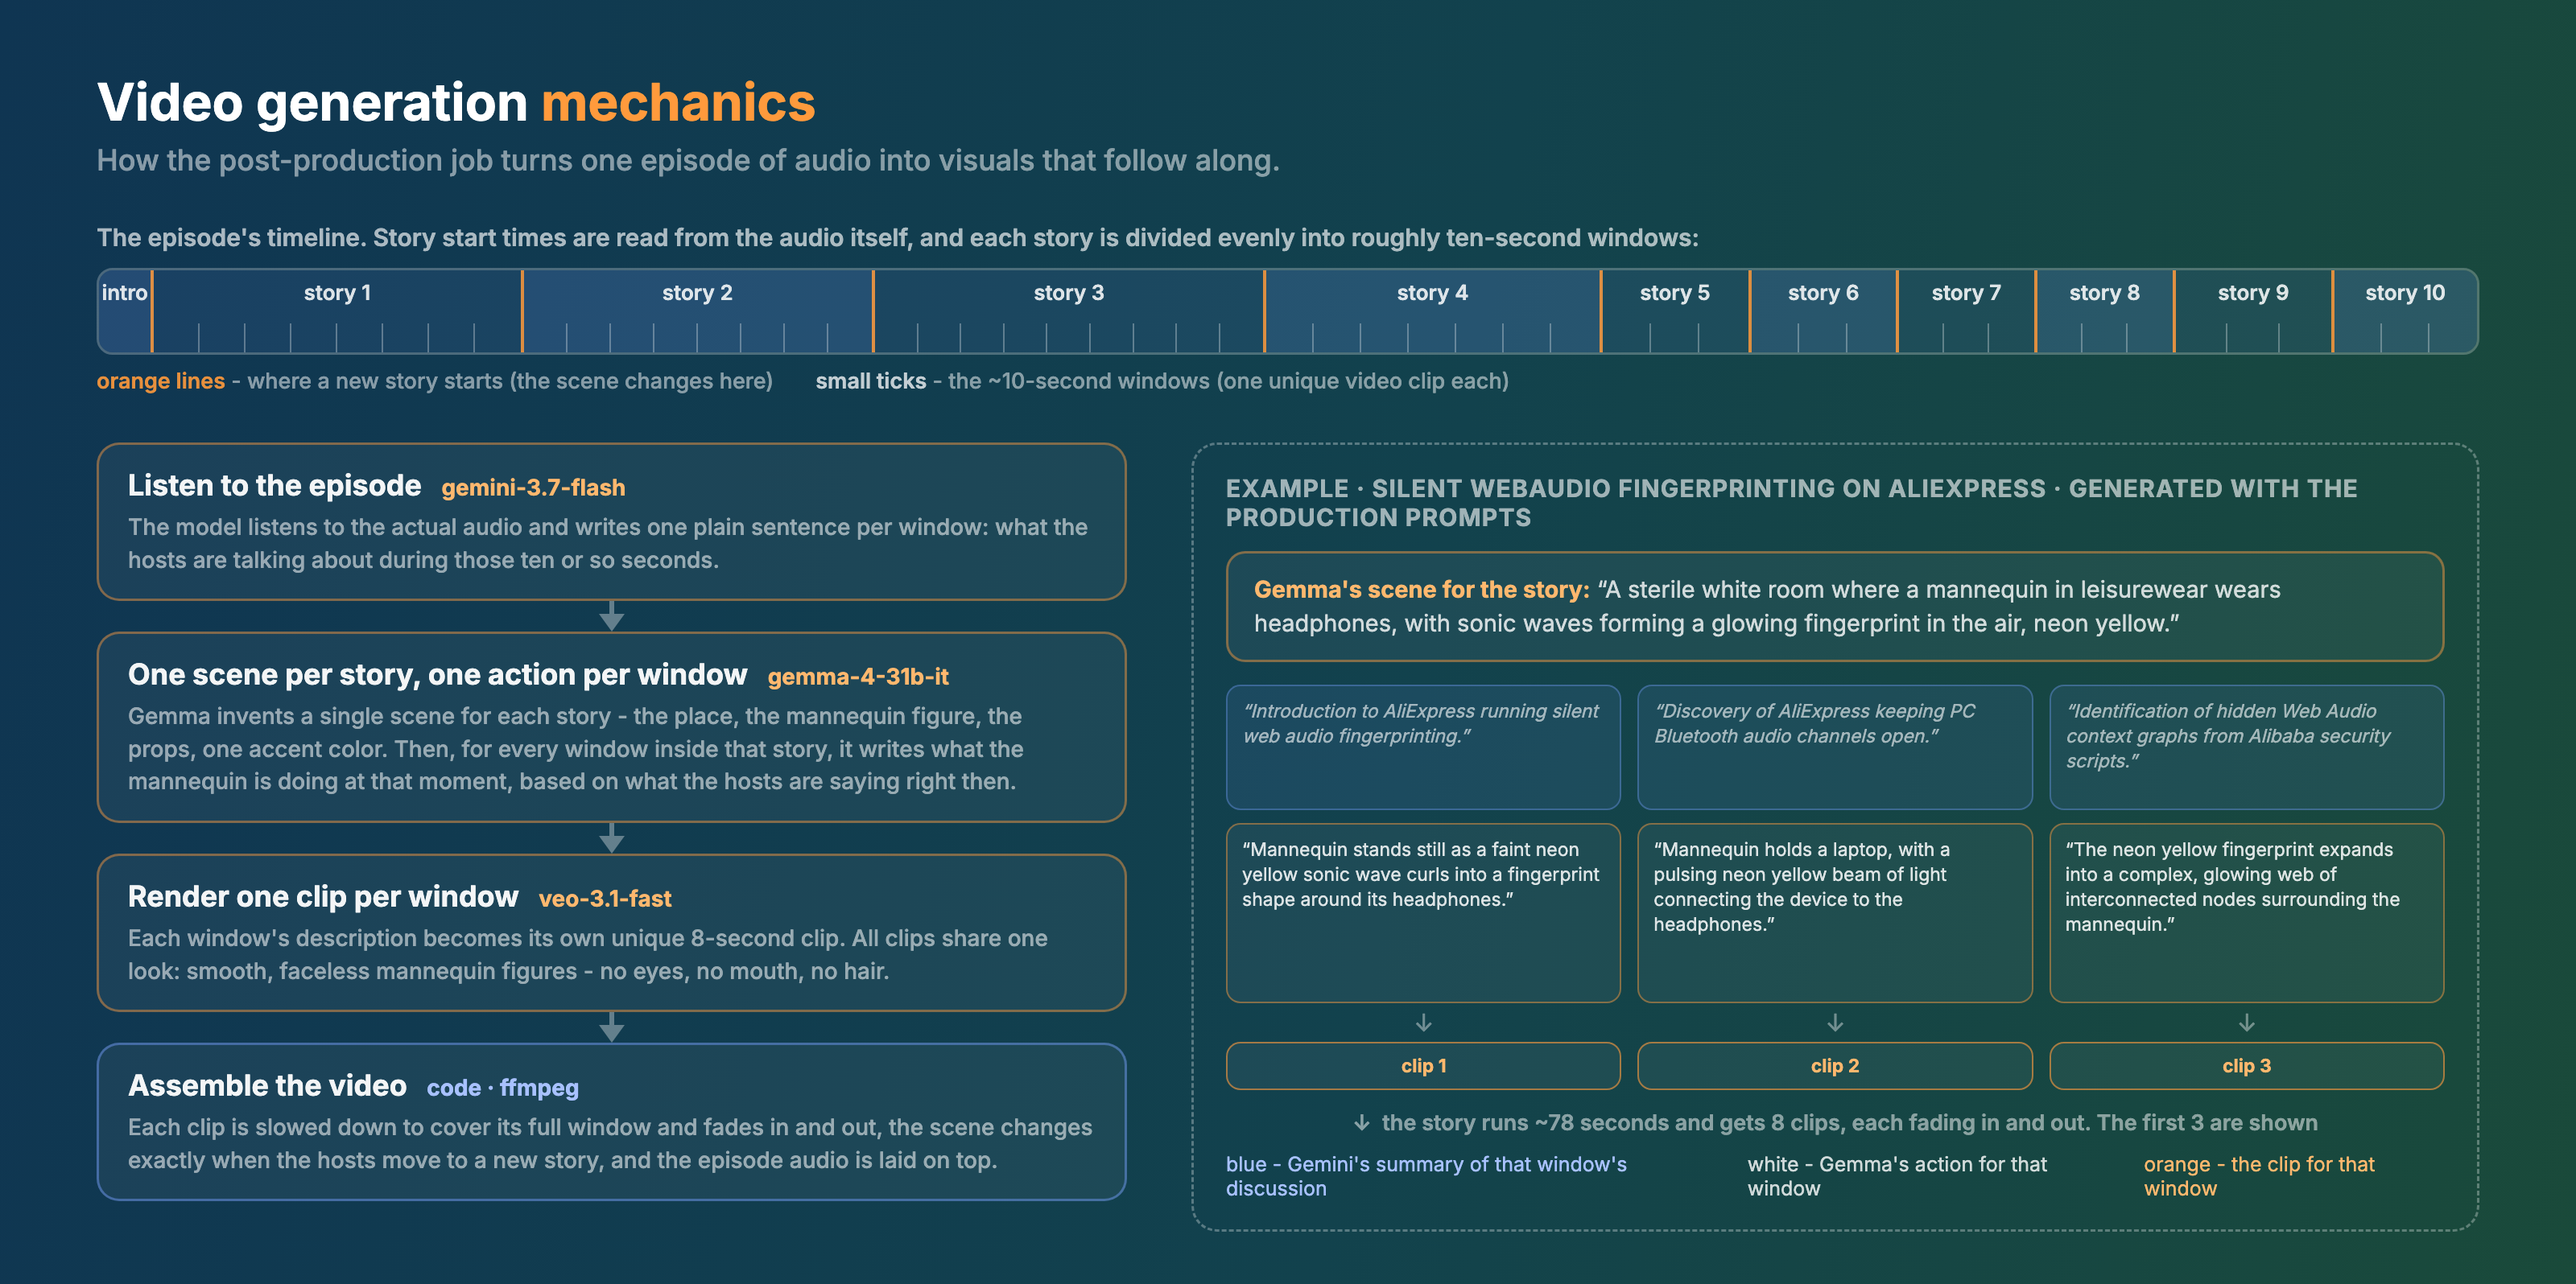
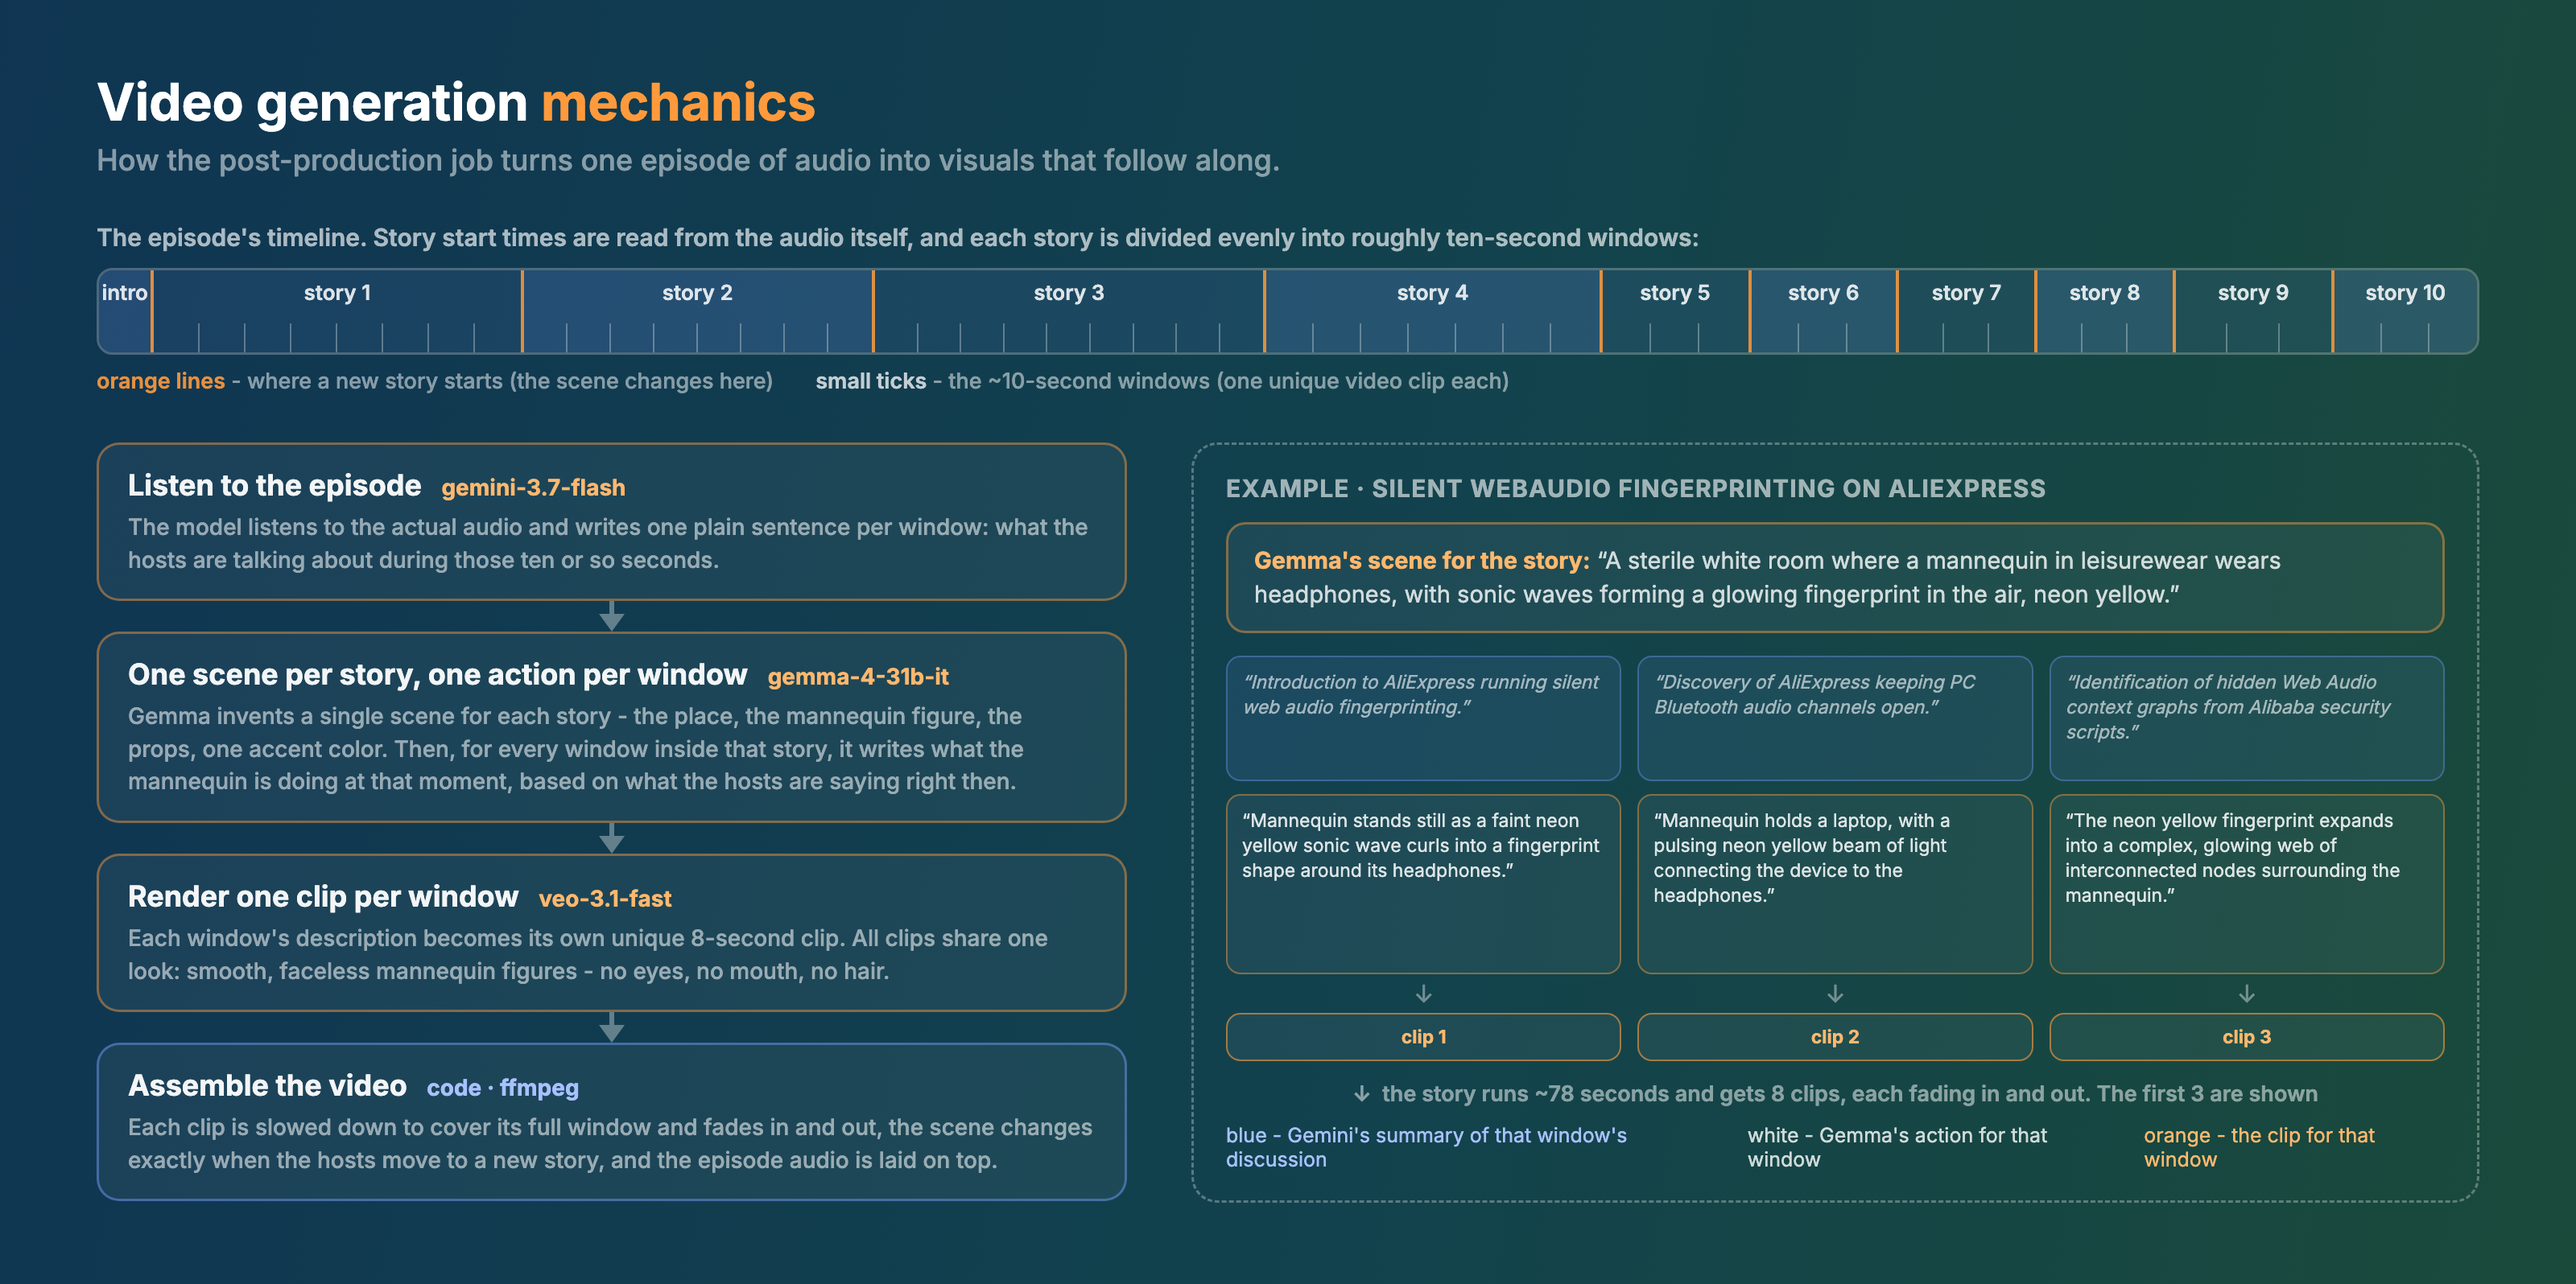
Strip: drop provenance phrase from example header

Changed region(s): [[0.4688, 0.3991, 0.9375, 0.7368], [0.4688, 0.7675, 0.9062, 0.9518], [0.8125, 0.3684, 0.9062, 0.3991]]

diff --git a/assets/architecture-video-strip.html b/assets/architecture-video-strip.html
@@ -79,7 +79,7 @@
         <div class="s">Each clip is slowed down to cover its full window and fades in and out, the scene changes exactly when the hosts move to a new story, and the episode audio is laid on top.</div></div>
     </div>
     <div class="ex">
-      <div class="xt">Example &middot; silent WebAudio fingerprinting on AliExpress &middot; generated with the production prompts</div>
+      <div class="xt">Example &middot; silent WebAudio fingerprinting on AliExpress</div>
       <div class="scene"><b>Gemma's scene for the story:</b> &ldquo;A sterile white room where a mannequin in leisurewear wears headphones, with sonic waves forming a glowing fingerprint in the air, neon yellow.&rdquo;</div>
       <div class="lanes"><div class="lane"><div class="said">&ldquo;Introduction to AliExpress running silent web audio fingerprinting.&rdquo;</div><div class="act">&ldquo;Mannequin stands still as a faint neon yellow sonic wave curls into a fingerprint shape around its headphones.&rdquo;</div><div class="dn">&#8595;</div><div class="clip">clip 1</div></div><div class="lane"><div class="said">&ldquo;Discovery of AliExpress keeping PC Bluetooth audio channels open.&rdquo;</div><div class="act">&ldquo;Mannequin holds a laptop, with a pulsing neon yellow beam of light connecting the device to the headphones.&rdquo;</div><div class="dn">&#8595;</div><div class="clip">clip 2</div></div><div class="lane"><div class="said">&ldquo;Identification of hidden Web Audio context graphs from Alibaba security scripts.&rdquo;</div><div class="act">&ldquo;The neon yellow fingerprint expands into a complex, glowing web of interconnected nodes surrounding the mannequin.&rdquo;</div><div class="dn">&#8595;</div><div class="clip">clip 3</div></div></div>
       <div class="merge">&#8595;&nbsp;&nbsp;the story runs ~78 seconds and gets 8 clips, each fading in and out. The first 3 are shown</div>
